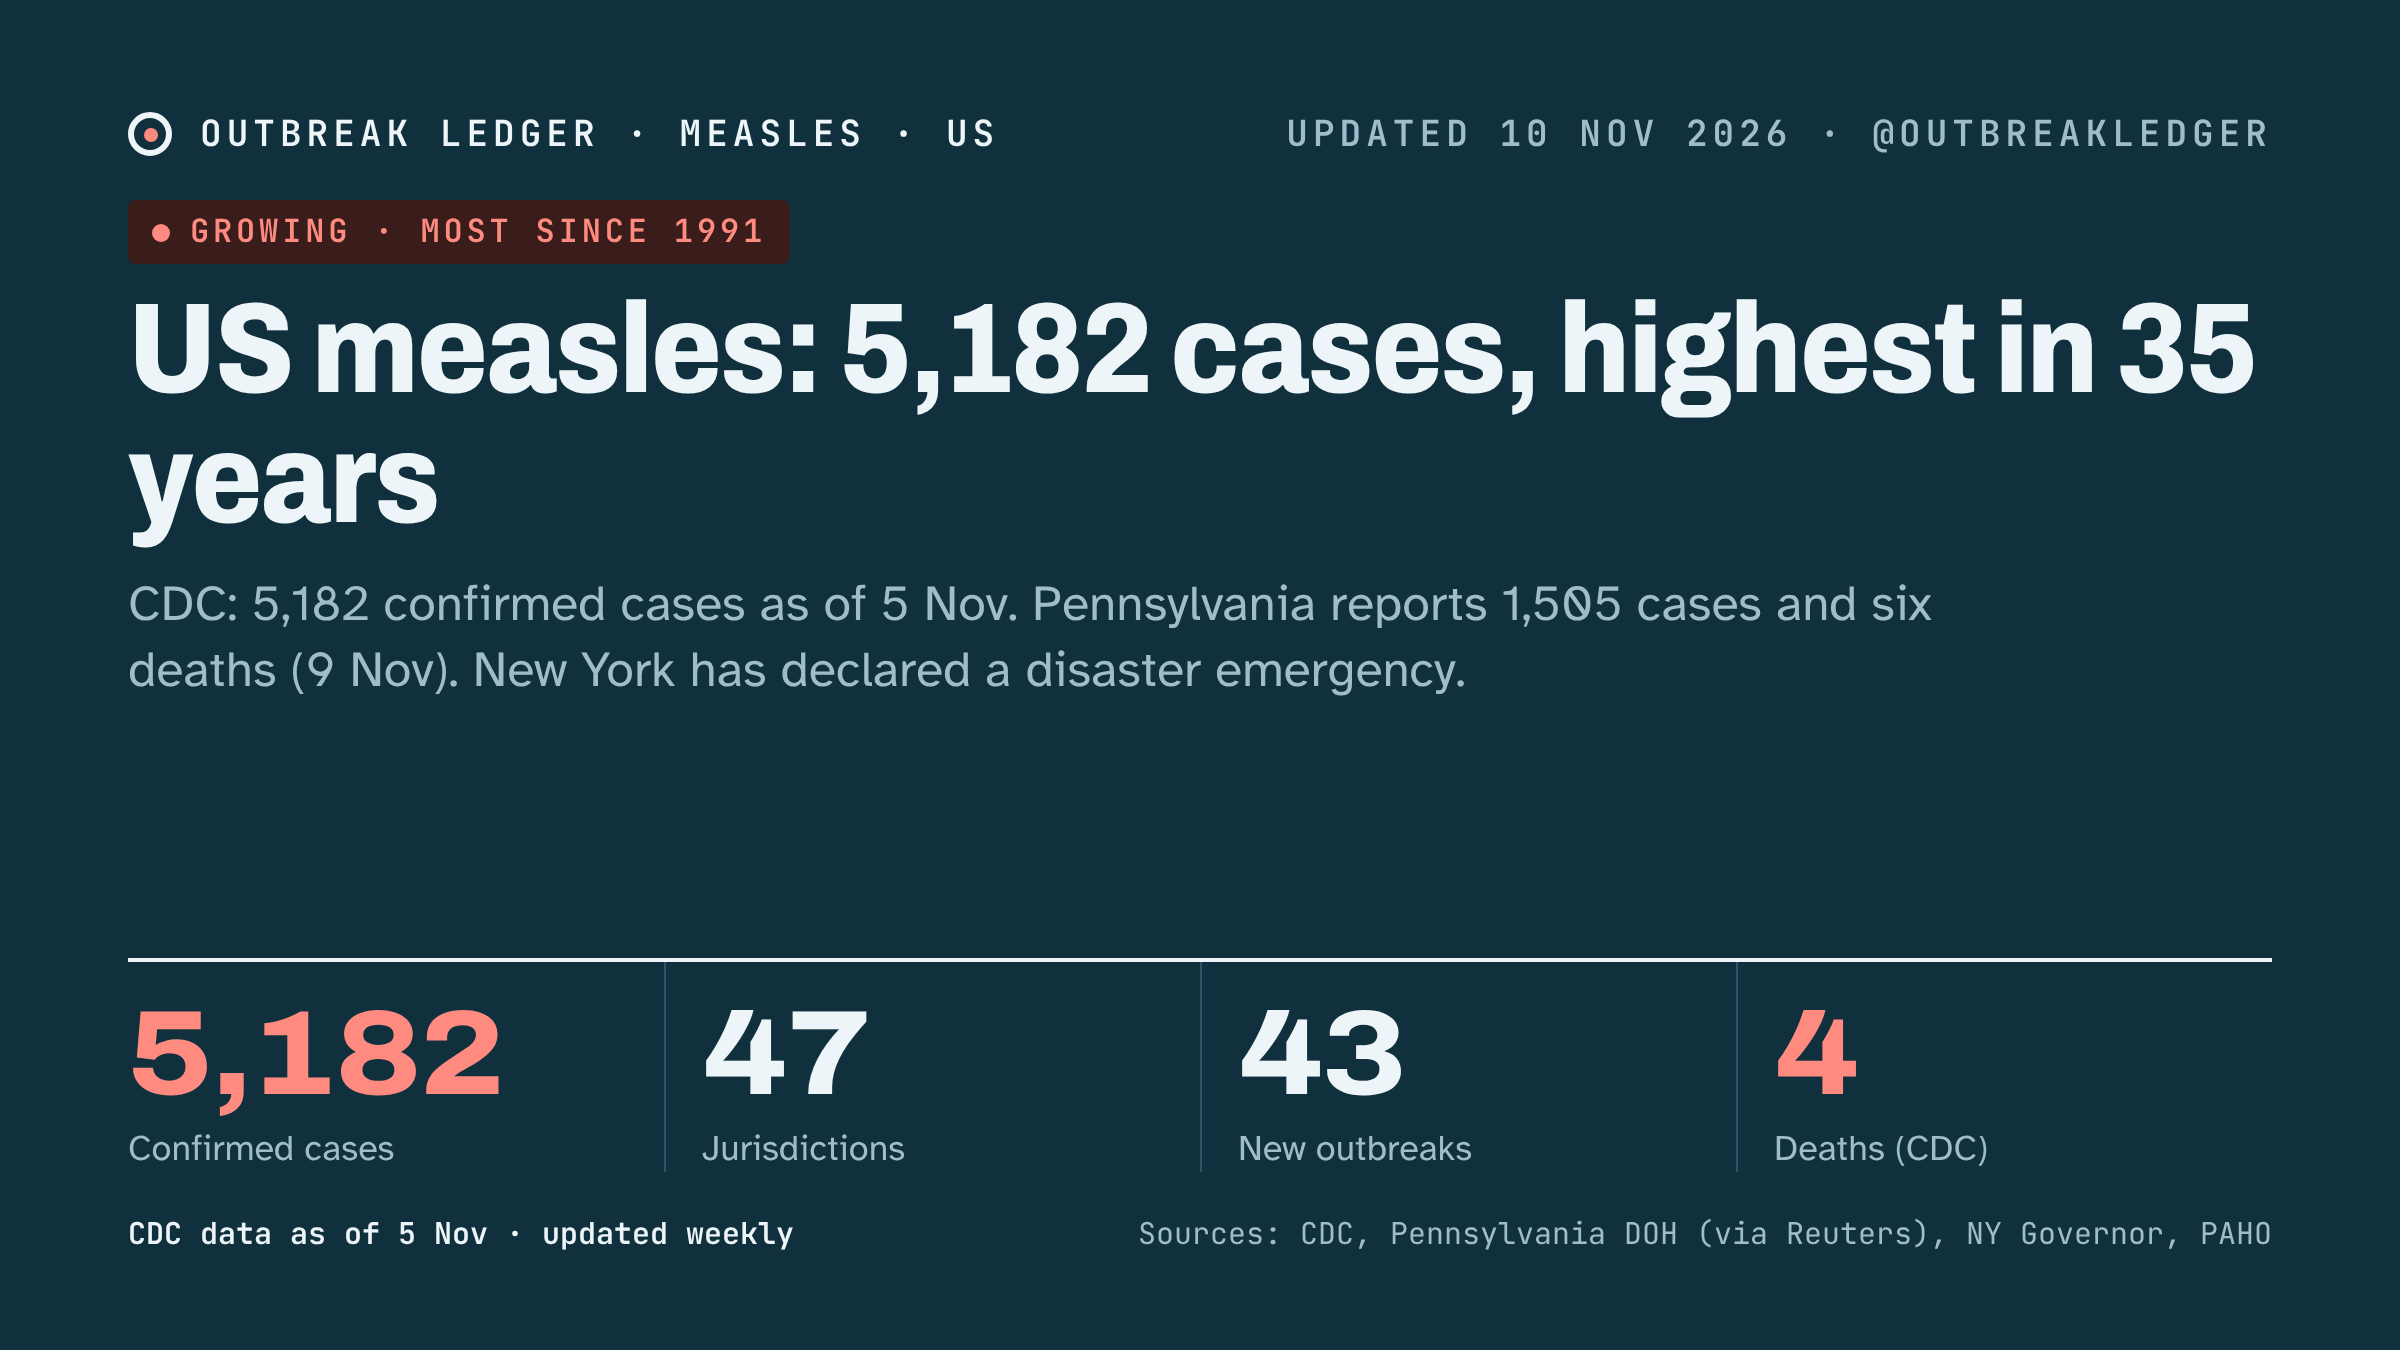
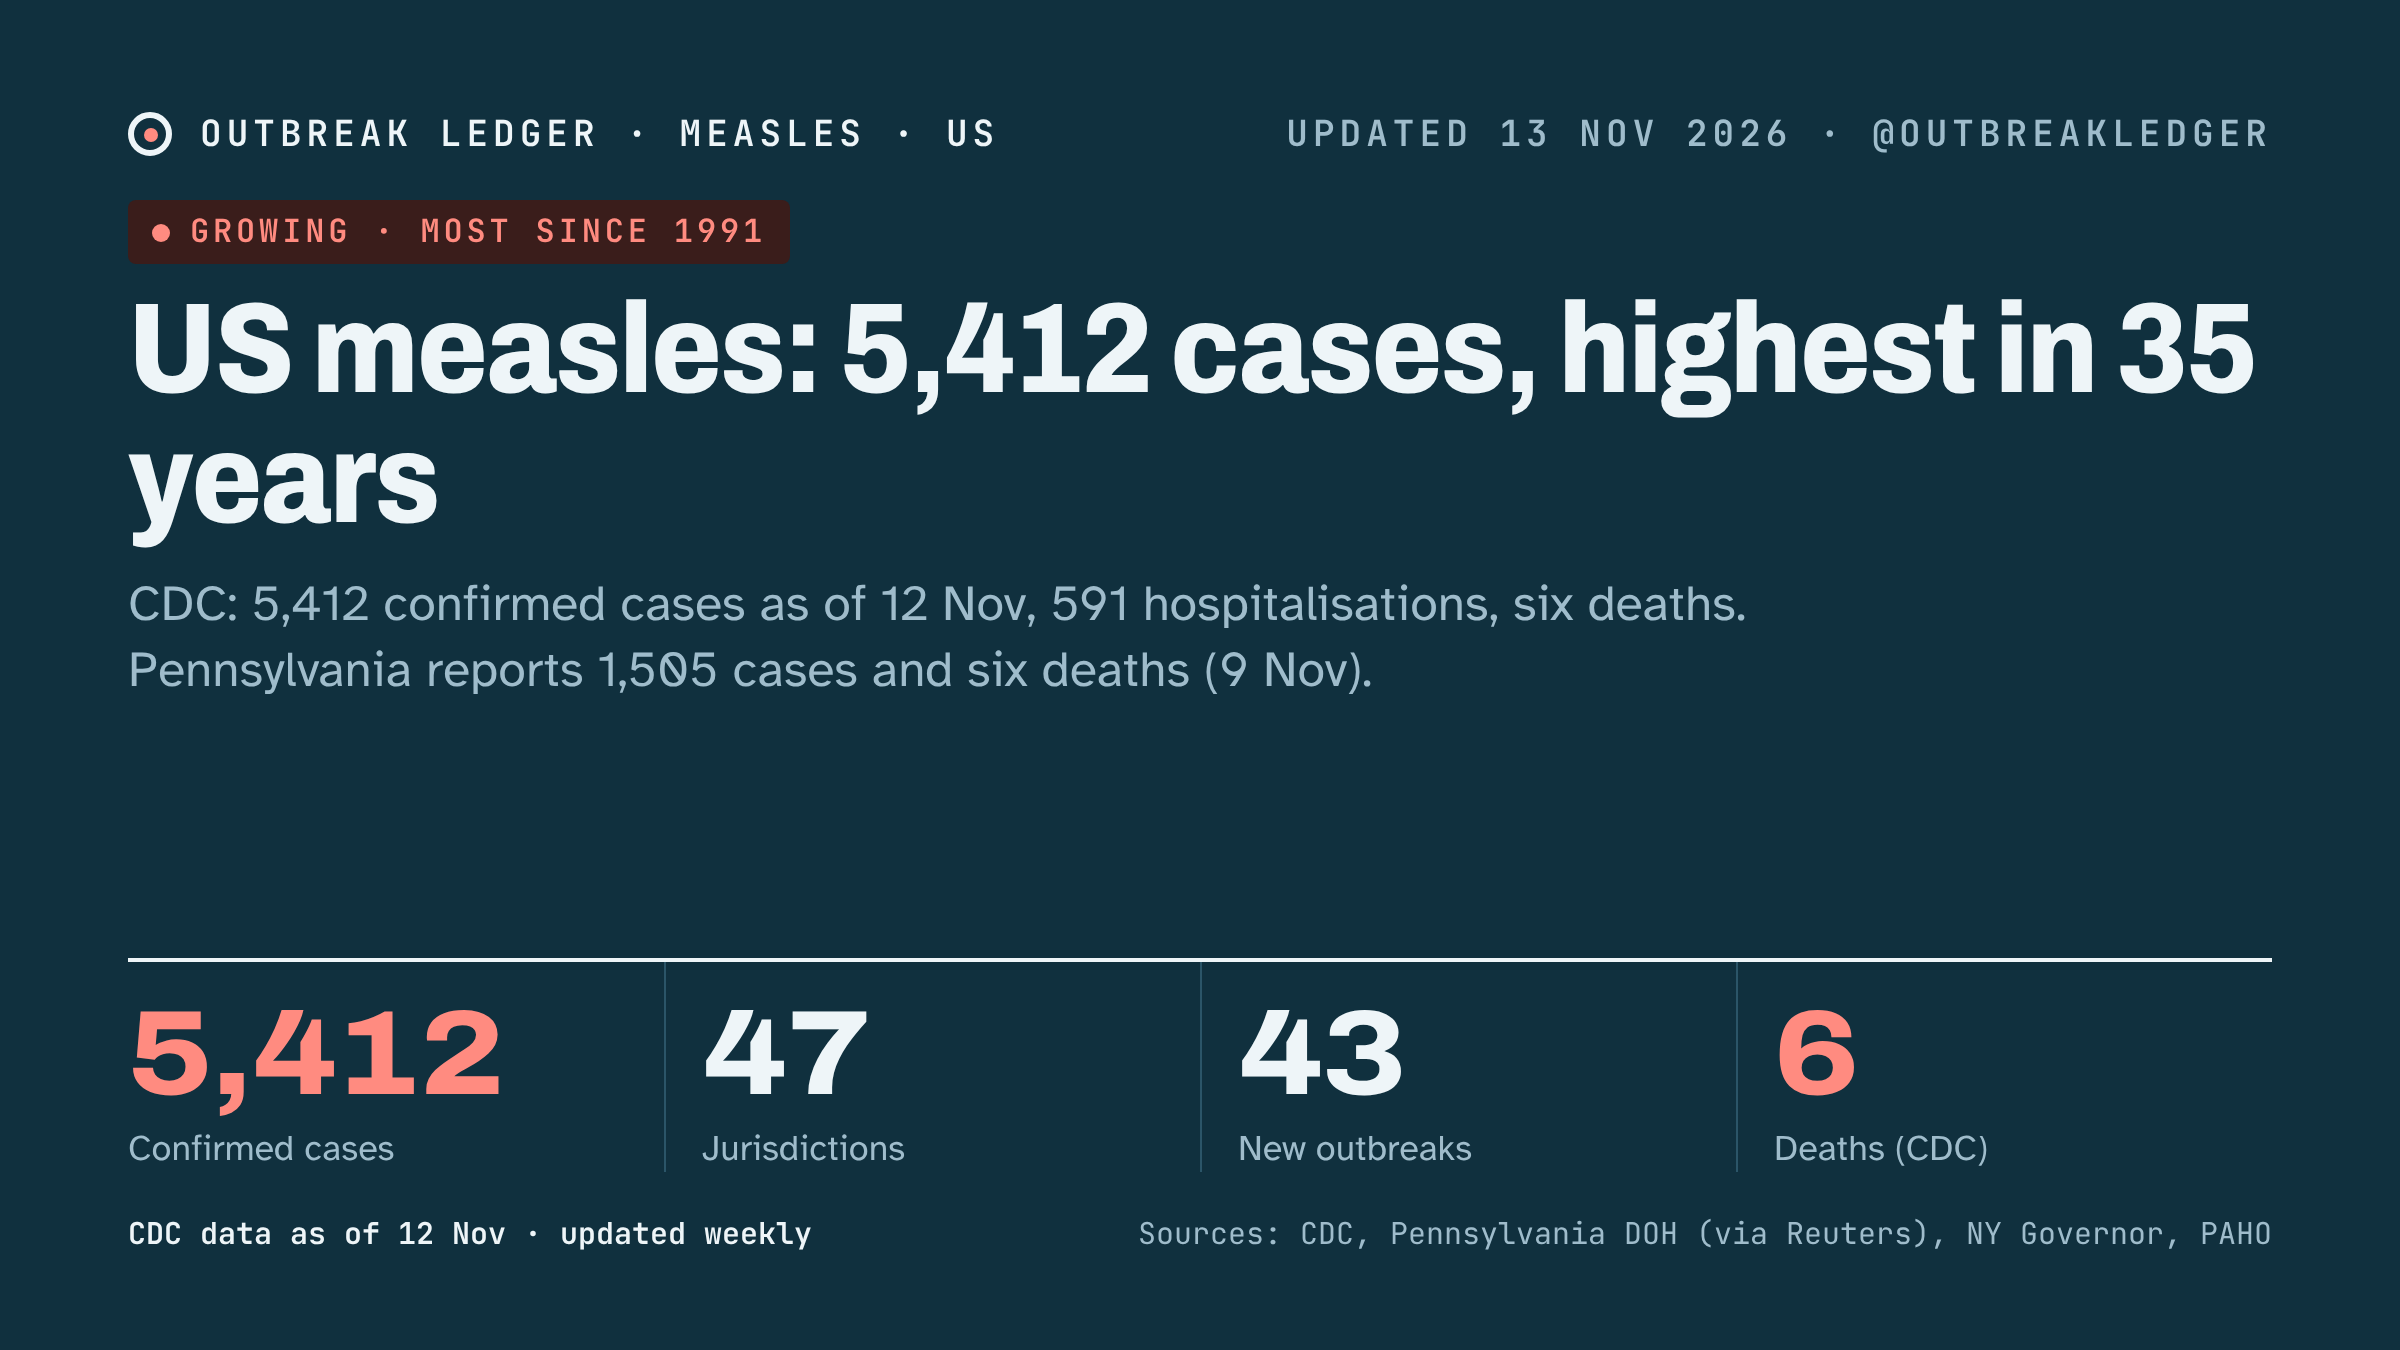
Trackers: measles CDC 5,412 cases, 591 hospitalisations, six deaths (12 Nov); others checked, no change
Claude-Session: https://claude.ai/code/session_01DjK934MGj4uKY77RiACNyU

diff --git a/site/measles/share/latest-post.md b/site/measles/share/latest-post.md
@@ -1,4 +1,3 @@
-US measles: Pennsylvania's health department counts 1,505 cases in 45 counties and six measles-associated deaths (9 Nov). CDC's national count is 5,182 as of 5 Nov. PAHO reviews US elimination status this week.
-https://nhlebe1.github.io/ai-scheduler-platform/measles/
+US measles: CDC counts 5,412 confirmed cases as of 12 Nov, 230 more than its previous update, with 591 hospitalisations and six deaths (subject to change). PAHO's review of US elimination status is under way. https://nhlebe1.github.io/ai-scheduler-platform/measles/
 
-Sources: Pennsylvania Department of Health (einpresswire.com/article/955663211), Reuters via U.S. News 9 Nov, CDC via Reuters 6 Nov.
+Sources: CDC data via Reuters (usnews.com/news/us/articles/2026-11-13/us-measles-cases-rise-to-5-412-cdc-says), ABC News (abcnews.com/Health/measles-cases-nationwide-top-5400-outbreaks-spread-us/story?id=138108176).
